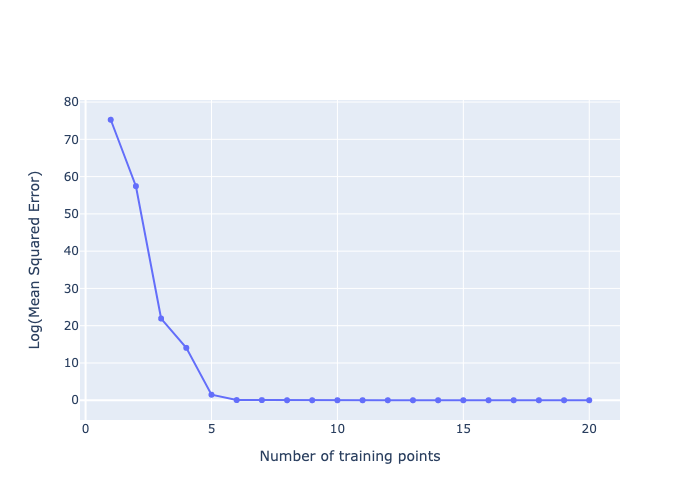
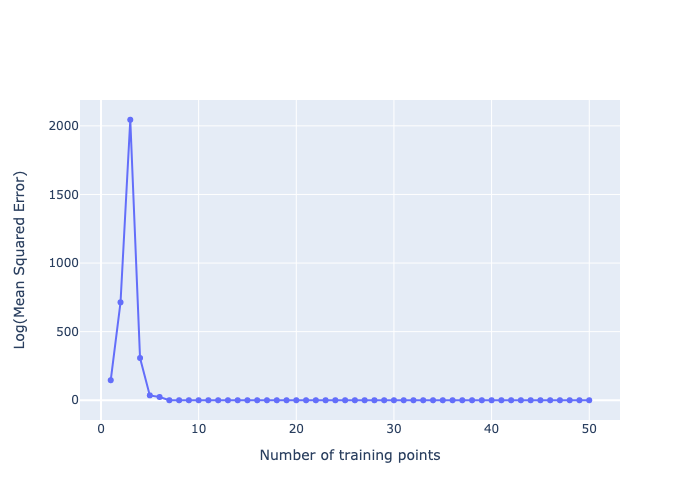
corrected 1b plots

diff --git a/task_1b.py b/task_1b.py
@@ -42,6 +42,7 @@ get_plot([n for n in range(1, N + 1)], log_MSE, "1b - Log(Mean Squared Error) vs
 
 # n = 10 is when MSE <= 10^-3
 n = 10
+MSE = [0] * len(x)
 log_MSE = [0] * len(x)
 for training_data_size in range(1, len(x) + 1):
     A0 = np.array([phi(x[i], n) for i in range(training_data_size)])
@@ -51,6 +52,7 @@ for training_data_size in range(1, len(x) + 1):
     theta = get_theta(X, Y)
     predictions = np.array([theta.T @ phi(validation_x[i], n) for i in range(m)])
     mse = np.linalg.norm(predictions - validation_y) ** 2 / m
+    MSE[training_data_size - 1] = mse
     log_MSE[training_data_size - 1] = np.log(mse) / np.log(10)
 
 
@@ -59,7 +61,7 @@ get_plot([n for n in range(1, len(x) + 1)], log_MSE, "1b - Log(Mean Squared Erro
          "Number of training points", "Log(Mean Squared Error)")
 
 get_plot([n for n in range(1, len(x) + 1)], MSE, "1b - Mean Squared Error vs Number of training points",
-         "Number of training points", "Log(Mean Squared Error)")
+         "Number of training points", "Mean Squared Error")
 
 x = np.linspace(-2, 2, 1000)
 y = np.array([theta.T @ phi(x[i], n) for i in range(1000)])
